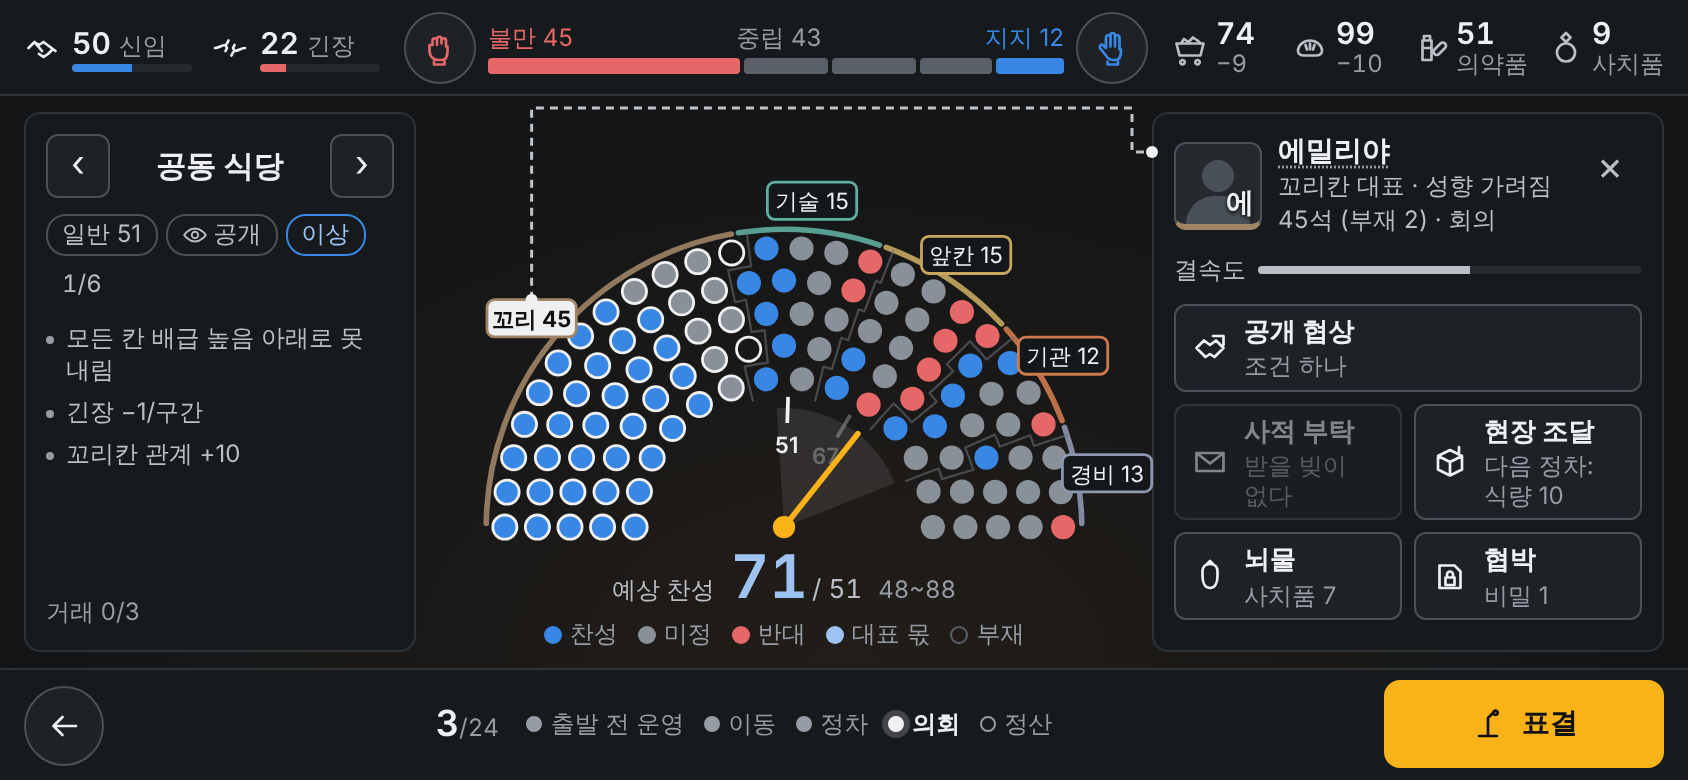
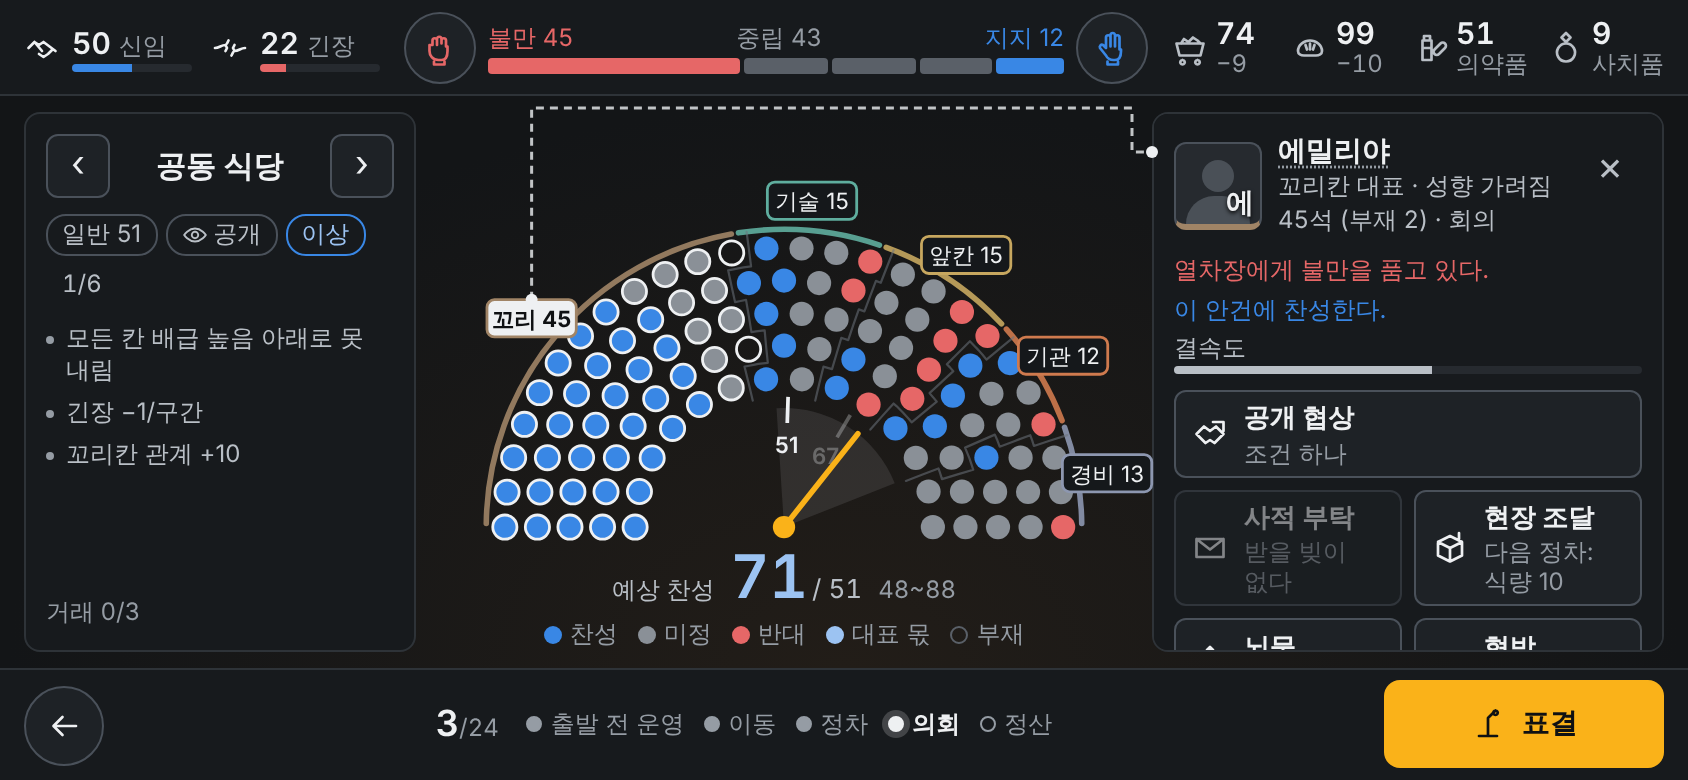
feat(s1a): relation lines, agenda leaning, and a stop arrival placeholder
Show how each group and representative regards the train chief as a
sentence, and during a session whether the representative leans for or
against the agenda. Entering a stop now plays a short brake beat before
the stop paper opens, and the stop paper carries one outside line hinting
at danger and one disembark line that depends on trust, recent deaths and
the crew's mood.

Claude-Session: https://claude.ai/code/session_01FWWoX5ofC1BLTUGwYixiRL

diff --git a/s1/src/game/scene.ts b/s1/src/game/scene.ts
@@ -1,0 +1,66 @@
+import { COMMS, PLACES } from './data';
+import { stageOf, totalPop } from './state';
+import type { Comm } from './data';
+import type { Game } from './state';
+
+// 정차 장면 글(자리표시). 나중엔 브레이크 소리와 함께 옆 앞쪽에서 본 정차 장면, 수색대와 열차장이 내리는 모습으로
+// 그린다(decisions.md 2026-10-07). 지금은 그 장면을 한두 문장으로 대신한다.
+// 바깥 문장은 위험을 간접으로 알리고, 내리는 문장은 지금 처지(지지, 불신임 직전, 죄책감)에 따라 달라진다.
+
+export const SCENE_LINES: Record<number, string[]> = {
+  1: ['바람 소리뿐이다. 눈 위에 발자국이 없다.', '역사 지붕이 무너져 있다. 움직이는 것은 없다.'],
+  2: ['멀리 연기가 한 줄 오른다. 누군가 있거나, 있었다.', '창문 몇 개가 안쪽에서 막혀 있다.'],
+  3: ['눈 위에 발자국이 어지럽다. 오래되지 않았다.', '문짝마다 긁힌 자국이 있다. 수색대가 쇠막대를 고쳐 쥔다.', '플랫폼 끝에 짐이 버려져 있다. 버린 사람은 보이지 않는다.'],
+};
+
+export type DisembarkMood = 'triumph' | 'cornered' | 'guilt' | 'cold' | 'warm' | 'plain';
+
+export const DISEMBARK_LINES: Record<DisembarkMood, string> = {
+  triumph: '열차장이 발판에 서자 수색대가 고개를 든다. 개선장군을 맞는 얼굴들이다.',
+  cornered: '열차장은 한숨을 쉬고 어깨를 늘어뜨린 채 내린다. 입김이 하얗게 번진다.',
+  guilt: '열차장이 멍하니 플랫폼 너머를 본다. 수색대 하나가 어깨를 툭 치고 지나간다.',
+  cold: '수색대가 말없이 내린다. 아무도 열차장을 돌아보지 않는다.',
+  warm: '수색대가 서로 장비를 챙겨 주며 내린다. 조장이 열차장에게 고개를 끄덕인다.',
+  plain: '문이 열리고 찬 공기가 들어온다. 수색대가 하나씩 내린다.',
+};
+
+function supportShare(g: Game): number {
+  const pop = totalPop(g) || 1;
+  return COMMS.reduce((sum, c) => sum + (g.comms[c].rel >= 15 ? g.comms[c].pop : 0), 0) / pop;
+}
+
+/** 내리는 장면의 분위기. 불신임 직전이 가장 먼저, 그다음 최근 죽음(죄책감), 크게 지지받음, 보낸 집단의 마음 순이다. */
+export function disembarkMood(g: Game, crew: Comm): DisembarkMood {
+  if (g.trust < 25 || g.tension >= 75) return 'cornered';
+  const recentDeath = g.journal.some(e => e.seg >= g.seg - 1 && e.text.includes('죽었다'));
+  if (recentDeath) return 'guilt';
+  if (g.trust >= 70 && supportShare(g) >= 0.5) return 'triumph';
+  const band = stageOf(g.comms[crew].rel).band;
+  if (band < 0) return 'cold';
+  if (band > 0) return 'warm';
+  return 'plain';
+}
+
+export function stopScene(g: Game): { outside: string; disembark: string } | null {
+  const stop = g.stop;
+  if (!stop) return null;
+  const place = PLACES.find(p => p.id === stop.place) ?? PLACES[0];
+  const lines = SCENE_LINES[Math.max(1, Math.min(3, place.risk))];
+  const outside = lines[(g.seg * 5 + place.id.length) % lines.length];
+  return { outside, disembark: DISEMBARK_LINES[disembarkMood(g, stop.crewComm)] };
+}
+
+/** 관계 단계를 사람 말로. 열차장(플레이어)을 어떻게 보는지. */
+export const RELATION_LINES: Record<string, string> = {
+  헌신: '열차장이 가자는 곳이라면 지옥이라도 따라갈 것이다.',
+  지지: '열차장을 믿고 따른다.',
+  호의: '열차장에게 호의적이다. 아직은.',
+  중립: '열차장을 지켜보고 있다.',
+  회의: '열차장에게 불만을 품고 있다.',
+  반대: '불만이 커져 대놓고 반대한다.',
+  적대: '불만이 극에 달했다. 열차장을 끌어내릴 틈만 본다.',
+};
+
+export function relationLine(rel: number): string {
+  return RELATION_LINES[stageOf(rel).name] ?? '';
+}

diff --git a/s1/src/ui/names.ts b/s1/src/ui/names.ts
@@ -1,4 +1,4 @@
-import { COMMS, COMM_NAME, PROFILES, REP_ROLE, TRAIT_NAME } from '../game';
+import { COMMS, COMM_NAME, PROFILES, REP_ROLE, TRAIT_NAME, currentAgenda, relationLine, stance } from '../game';
 import type { Comm, Game } from '../game';
 import { cx, h } from './dom';
 import { portrait } from './widgets';
@@ -36,6 +36,15 @@ export function nameList(names: string[]): (Node | string)[] {
   return out;
 }
 
+/** 회기 중이면 이 대표가 지금 안건에 어느 쪽인지. 비밀 투표 법이 서 있어도 대표의 말은 들린다. */
+export function agendaLine(g: Game, c: Comm, tag: 'li' | 'span' = 'li'): HTMLElement | null {
+  const agenda = g.phase === 'council' && g.council && !g.council.result ? currentAgenda(g) : null;
+  if (!agenda) return null;
+  const score = stance(g, c, agenda).score;
+  const text = score >= 2 ? '이 안건에 찬성한다.' : score >= 1 ? '이 안건에 찬성 쪽으로 기운다.' : score <= -2 ? '이 안건에 반대한다.' : score <= -1 ? '이 안건에 반대 쪽으로 기운다.' : '이 안건을 두고 망설인다.';
+  return h(tag, { class: score >= 1 ? 'is-blue' : score <= -1 ? 'is-red' : '' }, text);
+}
+
 function leaderOf(g: Game, name: string): Comm | null {
   return COMMS.find(c => g.comms[c].leader.name === name) ?? null;
 }
@@ -51,6 +60,9 @@ export function personCard(g: Game, name: string): HTMLElement {
       const l = g.comms[lead].leader;
       return l.traitShown === 0 ? '성향 가려짐' : l.traitShown === 1 ? `아마 ${TRAIT_NAME[l.trait]}` : TRAIT_NAME[l.trait];
     })()}`) : null,
+    comm ? h('li', { class: cx('person__rel', g.comms[comm].rel >= 15 && 'is-blue', g.comms[comm].rel <= -15 && 'is-red') },
+      lead ? relationLine(g.comms[comm].rel) : `${COMM_NAME[comm]} 분위기: ${relationLine(g.comms[comm].rel)}`) : null,
+    lead ? agendaLine(g, lead) : null,
     p?.hometown ? h('li', null, `고향 ${p.hometown}`) : null,
     p?.like ? h('li', null, `좋아함: ${p.like}`) : null,
     p?.dislike ? h('li', null, `싫어함: ${p.dislike}`) : null,

diff --git a/s1/src/ui/app.ts b/s1/src/ui/app.ts
@@ -52,7 +52,7 @@ function randomSeed(): string {
 function freshUi(): Ui {
   return {
     screen: 'home', panel: null, carPop: null, cardOpen: false, stopSeen: false, overviewSel: 'tail', numbersOnly: false,
-    selComm: null, dealOpen: null, cutPick: null, count: null, toast: null, debug: false, person: null,
+    selComm: null, dealOpen: null, cutPick: null, count: null, toast: null, debug: false, person: null, braking: false,
   };
 }
 
@@ -64,7 +64,7 @@ export function renderApp(view: View): HTMLElement {
   else if (screen === 'council') main = councilScreen(view);
   else if (screen === 'overview') main = overviewScreen(view);
   else main = homeScreen(view);
-  const sheet = screen === 'home' || screen === 'overview' ? cardSheet(view) : null;
+  const sheet = (screen === 'home' || screen === 'overview') && !ui.braking ? cardSheet(view) : null;
   const panel = overlay(view);
   return h('div', { class: cx('app', `app--${screen}`, sheet && 'has-sheet') },
     topBar(view),
@@ -212,6 +212,15 @@ export function startApp(root: HTMLElement): void {
         const wasSettle = g.phase === 'settle';
         act(next => advance(next));
         if (g.phase === 'settle' && !wasSettle) { ui.panel = 'settle'; ui.screen = 'home'; ui.selComm = null; ui.dealOpen = null; }
+        if (g.phase === 'stop' && !matchMedia('(prefers-reduced-motion: reduce)').matches) {
+          // 정차: 브레이크 소리와 함께 열차가 서고 나서 정차 서류가 펼쳐진다(나중엔 정차 장면으로 넘어가는 자리).
+          ui.stopSeen = false;
+          ui.screen = 'home';
+          ui.cardOpen = false;
+          ui.braking = true;
+          setTimeout(() => { ui.braking = false; if (stackCount(g, ui) > 0) openStack(); render(); }, 1100);
+          return render();
+        }
         if (g.phase === 'travel' || g.phase === 'stop') { ui.stopSeen = false; if (stackCount(g, ui) > 0) openStack(); }
         if (g.phase === 'prep') ui.panel = null;
         if (g.phase === 'council') { ui.screen = 'council'; ui.selComm = null; }

diff --git a/s1/src/ui/council.ts b/s1/src/ui/council.ts
@@ -1,6 +1,6 @@
 import {
   COMMS, COMM_NAME, LAWS, P, REP_ROLE, TRAIT_NAME, agendaTitle, blocs, bribePrice, currentAgenda, expected, lawActive,
-  lawNeed, openConditions, relStage, toolStatus,
+  lawNeed, openConditions, relStage, relationLine, toolStatus,
 } from '../game';
 import type { Bloc, Comm, DealTool, Game, VoteResult } from '../game';
 import { cx, h, s } from './dom';
@@ -10,7 +10,7 @@ import { WEDGE_ORDER, fmt } from './common';
 import type { View } from './common';
 import { DEFAULT_HEMICYCLE, hemicycleBounds, layoutHemicycle, wedgeBoundaries } from './seats';
 import { bar, portrait } from './widgets';
-import { nameBtn } from './names';
+import { agendaLine, nameBtn } from './names';
 
 // 의회: 식당칸 안 반원 100석을 공동체 쐐기로 나누고 쐐기 끝에 명판을 단다. 가운데 전령기 바늘과 51·67 눈금,
 // '예상 찬성 / 필요' 큰 숫자. 왼쪽은 법안 창, 오른쪽은 고른 공동체의 창(지도자, 의석, 결속도, 거래 단추 다섯).
@@ -223,6 +223,8 @@ function commPanel(view: View, map: Record<Comm, Bloc>): HTMLElement {
       h('div', { class: 'sub num' }, `${b.seats}석${b.absent ? ` (부재 ${b.absent})` : ''} · ${relStage(g, c)}`)),
     h('button', { class: 'x', 'data-action': 'sel-comm', 'data-comm': '', 'aria-label': '닫기' }, '×'));
   const facts = h('div', { class: 'cpanel__facts' },
+    h('span', { class: st.rel >= 15 ? 'is-blue' : st.rel <= -15 ? 'is-red' : '' }, relationLine(st.rel)),
+    agendaLine(g, c, 'span'),
     h('span', null, '결속도 ', bar(st.coh * 100, '--ink-2')),
     st.fervor > 0 ? h('span', { class: 'is-red' }, `열기 ${st.fervor}`) : null,
     grudge ? h('span', { class: 'is-red' }, grudge) : null,

diff --git a/s1/src/ui/styles.css b/s1/src/ui/styles.css
@@ -722,3 +722,21 @@ small { font-size: 12px; }
 .person .drop__head { align-items: flex-start; }
 .person .drop__head > div:not(.portrait) { flex: 1; min-width: 0; }
 .person__facts { display: flex; flex-direction: column; gap: 3px; font-size: 13px; color: var(--ink-2); }
+
+/* ---------- 정차 브레이크 연출(자리표시) ---------- */
+
+.home.is-braking .train { animation: brake-shake .12s linear 8; }
+.home.is-braking .layer--mid { animation: pass .5s linear 2, pass 1.4s linear .5s 1; }
+.home.is-braking::after { content: ""; position: absolute; inset: 0; z-index: 3; pointer-events: none; animation: brake-dim 1.1s ease-in forwards; }
+.home.is-braking .car__wheels i { box-shadow: 0 0 6px 2px #fab21999; }
+@keyframes brake-shake { 0%, 100% { transform: translateX(0); } 50% { transform: translateX(-2px); } }
+@keyframes brake-dim { from { background: transparent; } to { background: #0f111399; } }
+.brake {
+  position: absolute; z-index: 4; left: 50%; top: 36%; transform: translate(-50%, -50%);
+  display: flex; flex-direction: column; align-items: center; gap: 4px; pointer-events: none;
+  animation: brake-text 1.1s ease-out forwards;
+}
+.brake b { font-size: 28px; letter-spacing: .12em; color: var(--ink-1); }
+.brake span { font-size: 13px; color: var(--ink-2); }
+@keyframes brake-text { 0% { opacity: 0; transform: translate(-50%, -40%); } 20% { opacity: 1; transform: translate(-50%, -50%); } 100% { opacity: .9; } }
+.scene { font-size: 12px; color: var(--ink-2); line-height: 1.45; padding-left: 8px; border-left: 2px solid var(--line-strong); }

diff --git a/s1/src/ui/card.ts b/s1/src/ui/card.ts
@@ -1,5 +1,5 @@
 import {
-  COMMS, COMM_NAME, FETCH_WANT, LOOT_KEYS, LOOT_NAME, PLACES, STAY, costLines, crewNames, politicsLines, viewCard,
+  COMMS, COMM_NAME, FETCH_WANT, LOOT_KEYS, LOOT_NAME, PLACES, STAY, costLines, crewNames, politicsLines, stopScene, viewCard,
 } from '../game';
 import type { Comm, LootKey, StayId } from '../game';
 import { cx, h } from './dom';
@@ -38,6 +38,7 @@ function stopCard(view: View): HTMLElement | null {
   const promises = COMMS.map(c => g.comms[c].promise ? { c, p: g.comms[c].promise! } : null).filter(Boolean) as { c: Comm; p: NonNullable<typeof g.comms.tail.promise> }[];
   const stopPromises = promises.filter(x => x.p.kind === 'fetch' || x.p.cond.kind === 'target' || x.p.cond.kind === 'skip_dispatch');
   const maxW = Math.max(...LOOT_KEYS.map(k => place.loot[k]));
+  const scene = stopScene(g);
   return sheet('sheet--stop',
     h('div', { class: 'sheet__head' },
       h('div', null,
@@ -45,6 +46,7 @@ function stopCard(view: View): HTMLElement | null {
         h('div', { class: 'sheet__titleline' },
           h('b', { class: 'sheet__title' }, place.name),
           h('span', { class: 'risk', 'aria-label': `위험 ${place.risk}` }, '위험 ', Array.from({ length: 3 }, (_, i) => h('i', { class: cx(i < place.risk && 'is-on') })))))),
+    scene ? h('p', { class: 'scene' }, scene.outside, ' ', scene.disembark) : null,
     h('div', { class: 'field field--row' },
       h('span', { class: 'field__label' }, '무엇을'),
       h('div', { class: 'targets' }, LOOT_KEYS.map(k => h('button', {

diff --git a/s1/tests/game/play.test.ts b/s1/tests/game/play.test.ts
@@ -1,6 +1,7 @@
 import { describe, expect, it } from 'vitest';
 import {
-  advance, castVote, chooseCard, COMMS, createGame, currentAgenda, makeDeal, primaryAction, resolveStop, toolStatus, viewCard,
+  advance, castVote, chooseCard, COMMS, createGame, currentAgenda, disembarkMood, makeDeal, primaryAction, relationLine, resolveStop,
+  toolStatus, viewCard,
 } from '../../src/game';
 import type { Game } from '../../src/game';
 
@@ -55,5 +56,24 @@ describe('S1a 한 판', () => {
   it('상태를 JSON으로 저장하고 되살릴 수 있다', () => {
     const g = autoplay('json', false);
     expect(JSON.parse(JSON.stringify(g))).toEqual(g);
+  });
+});
+
+describe('정차 장면과 관계 문장', () => {
+  it('관계 일곱 단계마다 문장이 있다', () => {
+    for (const rel of [90, 50, 20, 0, -20, -50, -90]) expect(relationLine(rel)).not.toBe('');
+  });
+
+  it('불신임 직전이면 어깨가 처진 장면, 크게 지지받으면 개선장군 장면이다', () => {
+    const g = createGame('scene');
+    g.trust = 20;
+    expect(disembarkMood(g, 'tail')).toBe('cornered');
+    g.trust = 80;
+    g.tension = 10;
+    for (const c of COMMS) g.comms[c].rel = 60;
+    expect(disembarkMood(g, 'tail')).toBe('triumph');
+    g.trust = 50;
+    g.comms.tail.rel = -50;
+    expect(disembarkMood(g, 'tail')).toBe('cold');
   });
 });

diff --git a/s1/src/ui/home.ts b/s1/src/ui/home.ts
@@ -108,7 +108,7 @@ export function homeScreen(view: View): HTMLElement {
   const { g, ui } = view;
   const moving = g.phase === 'travel' && !g.inStrike;
   const open = CARS.find(c => c.id === ui.carPop);
-  return h('section', { class: cx('home', moving && 'is-moving', g.phase === 'stop' && 'is-stopped', g.inStrike && 'is-strike') },
+  return h('section', { class: cx('home', moving && 'is-moving', g.phase === 'stop' && 'is-stopped', g.inStrike && 'is-strike', ui.braking && 'is-braking') },
     h('div', { class: 'sky' }, h('i', { class: 'layer layer--far' }), h('i', { class: 'layer layer--mid' }), h('i', { class: 'snow' })),
     h('div', { class: 'scroller', 'data-keep-scroll': 'train' },
       h('div', { class: 'train' },
@@ -117,6 +117,6 @@ export function homeScreen(view: View): HTMLElement {
           carEl(view, car)))),
       h('div', { class: 'rails' })),
     h('i', { class: 'layer layer--near' }),
-    paperStack(view),
+    ui.braking ? h('div', { class: 'brake', role: 'status' }, h('b', null, '끼이이익'), h('span', null, '열차가 선다')) : paperStack(view),
     g.phase === 'stop' && g.stop ? h('div', { class: 'platform-tag' }, icon('symbol'), '정차 중') : null);
 }

diff --git a/s1/src/ui/overview.ts b/s1/src/ui/overview.ts
@@ -1,4 +1,4 @@
-import { COMM_NAME, REP_ROLE, forecast, relStage, situation } from '../game';
+import { COMM_NAME, REP_ROLE, forecast, relStage, relationLine, situation } from '../game';
 import type { Comm } from '../game';
 import { cx, h } from './dom';
 import { icon } from './icons';
@@ -32,7 +32,8 @@ function commPanel(view: View, c: Comm): HTMLElement {
       h('div', null,
         h('b', null, COMM_NAME[c]),
         h('div', { class: 'sub' }, `${REP_ROLE[c]} `, nameBtn(s.leader.name)),
-        h('div', { class: 'sub num' }, `${s.pop}명 · ${relStage(g, c)}`))),
+        h('div', { class: 'sub num' }, `${s.pop}명 · ${relStage(g, c)}`),
+        h('div', { class: cx('sub', s.rel >= 15 && 'is-blue', s.rel <= -15 && 'is-red') }, relationLine(s.rel)))),
     h('div', { class: 'ov-panel__stats' },
       h('span', null, '온기 ', h('b', { class: 'num' }, fmt(w)), bar(w, w < 45 ? '--discontent' : '--warm')),
       h('span', null, '배급 ', h('b', { class: 'num' }, fmt(r)), bar(r, r < 45 ? '--discontent' : '--ink-3')),

diff --git a/s1/src/ui/panels.ts b/s1/src/ui/panels.ts
@@ -1,5 +1,5 @@
 import {
-  COMMS, COMM_NAME, PROTEST, REP_ROLE, TRAIT_NAME, UNIQUE_ACTION, relStage, seats, situation,
+  COMMS, COMM_NAME, PROTEST, REP_ROLE, TRAIT_NAME, UNIQUE_ACTION, relStage, relationLine, seats, situation,
 } from '../game';
 import type { Comm, Game } from '../game';
 import { cx, h } from './dom';
@@ -22,6 +22,7 @@ function factionRow(g: Game, c: Comm): HTMLElement {
       h('span', { class: cx('stage', `stage--${s.rel >= 15 ? 'up' : s.rel <= -15 ? 'down' : 'mid'}`) }, relStage(g, c))),
     h('div', { class: 'frow__facts' },
       h('span', null, `${REP_ROLE[c]} `, nameBtn(s.leader.name)),
+      h('span', { class: s.rel >= 15 ? 'is-blue' : s.rel <= -15 ? 'is-red' : '' }, relationLine(s.rel)),
       s.fervor > 0 ? h('span', { class: 'is-red' }, `열기 ${s.fervor}${s.rel <= -40 || c === 'engine' ? ` · ${PROTEST[c]}` : ''}`) : null,
       grudge ? h('span', { class: 'is-red' }, grudge) : null,
       s.promise ? h('span', null, `약속: ${s.promise.label}`) : null),

diff --git a/s1/tests/game/text_rules.test.ts b/s1/tests/game/text_rules.test.ts
@@ -2,7 +2,8 @@ import { readFileSync } from 'node:fs';
 import { join } from 'node:path';
 import { describe, expect, it } from 'vitest';
 import {
-  advance, castVote, chooseCard, COMMON_CONDITIONS, COMMS, CONDITIONS, createGame, currentAgenda, LAWS, makeDeal, PLACES,
+  advance, castVote, chooseCard, COMMON_CONDITIONS, COMMS, CONDITIONS, createGame, currentAgenda, DISEMBARK_LINES, LAWS, makeDeal, PLACES,
+  RELATION_LINES, SCENE_LINES,
   primaryAction, resolveStop, SECRET_POOL, toolStatus, viewCard,
 } from '../../src/game';
 
@@ -57,6 +58,9 @@ describe('화면 글 규칙', () => {
       ...SECRET_POOL.map(s => s.text),
       ...Object.values(CONDITIONS).flat().map(c => c.label),
       ...COMMON_CONDITIONS.map(c => c.label),
+      ...Object.values(SCENE_LINES).flat(),
+      ...Object.values(DISEMBARK_LINES),
+      ...Object.values(RELATION_LINES),
     ];
     expect(fixed.flatMap(t => violations(t, false))).toEqual([]);
   });

diff --git a/s1/src/ui/common.ts b/s1/src/ui/common.ts
@@ -27,6 +27,8 @@ export interface Ui {
   toast: string | null;
   /** 이름을 눌러 연 사람 정보(전체 이름) */
   person: string | null;
+  /** 정차 직전 브레이크 연출 중 */
+  braking: boolean;
   debug: boolean;
 }
 
